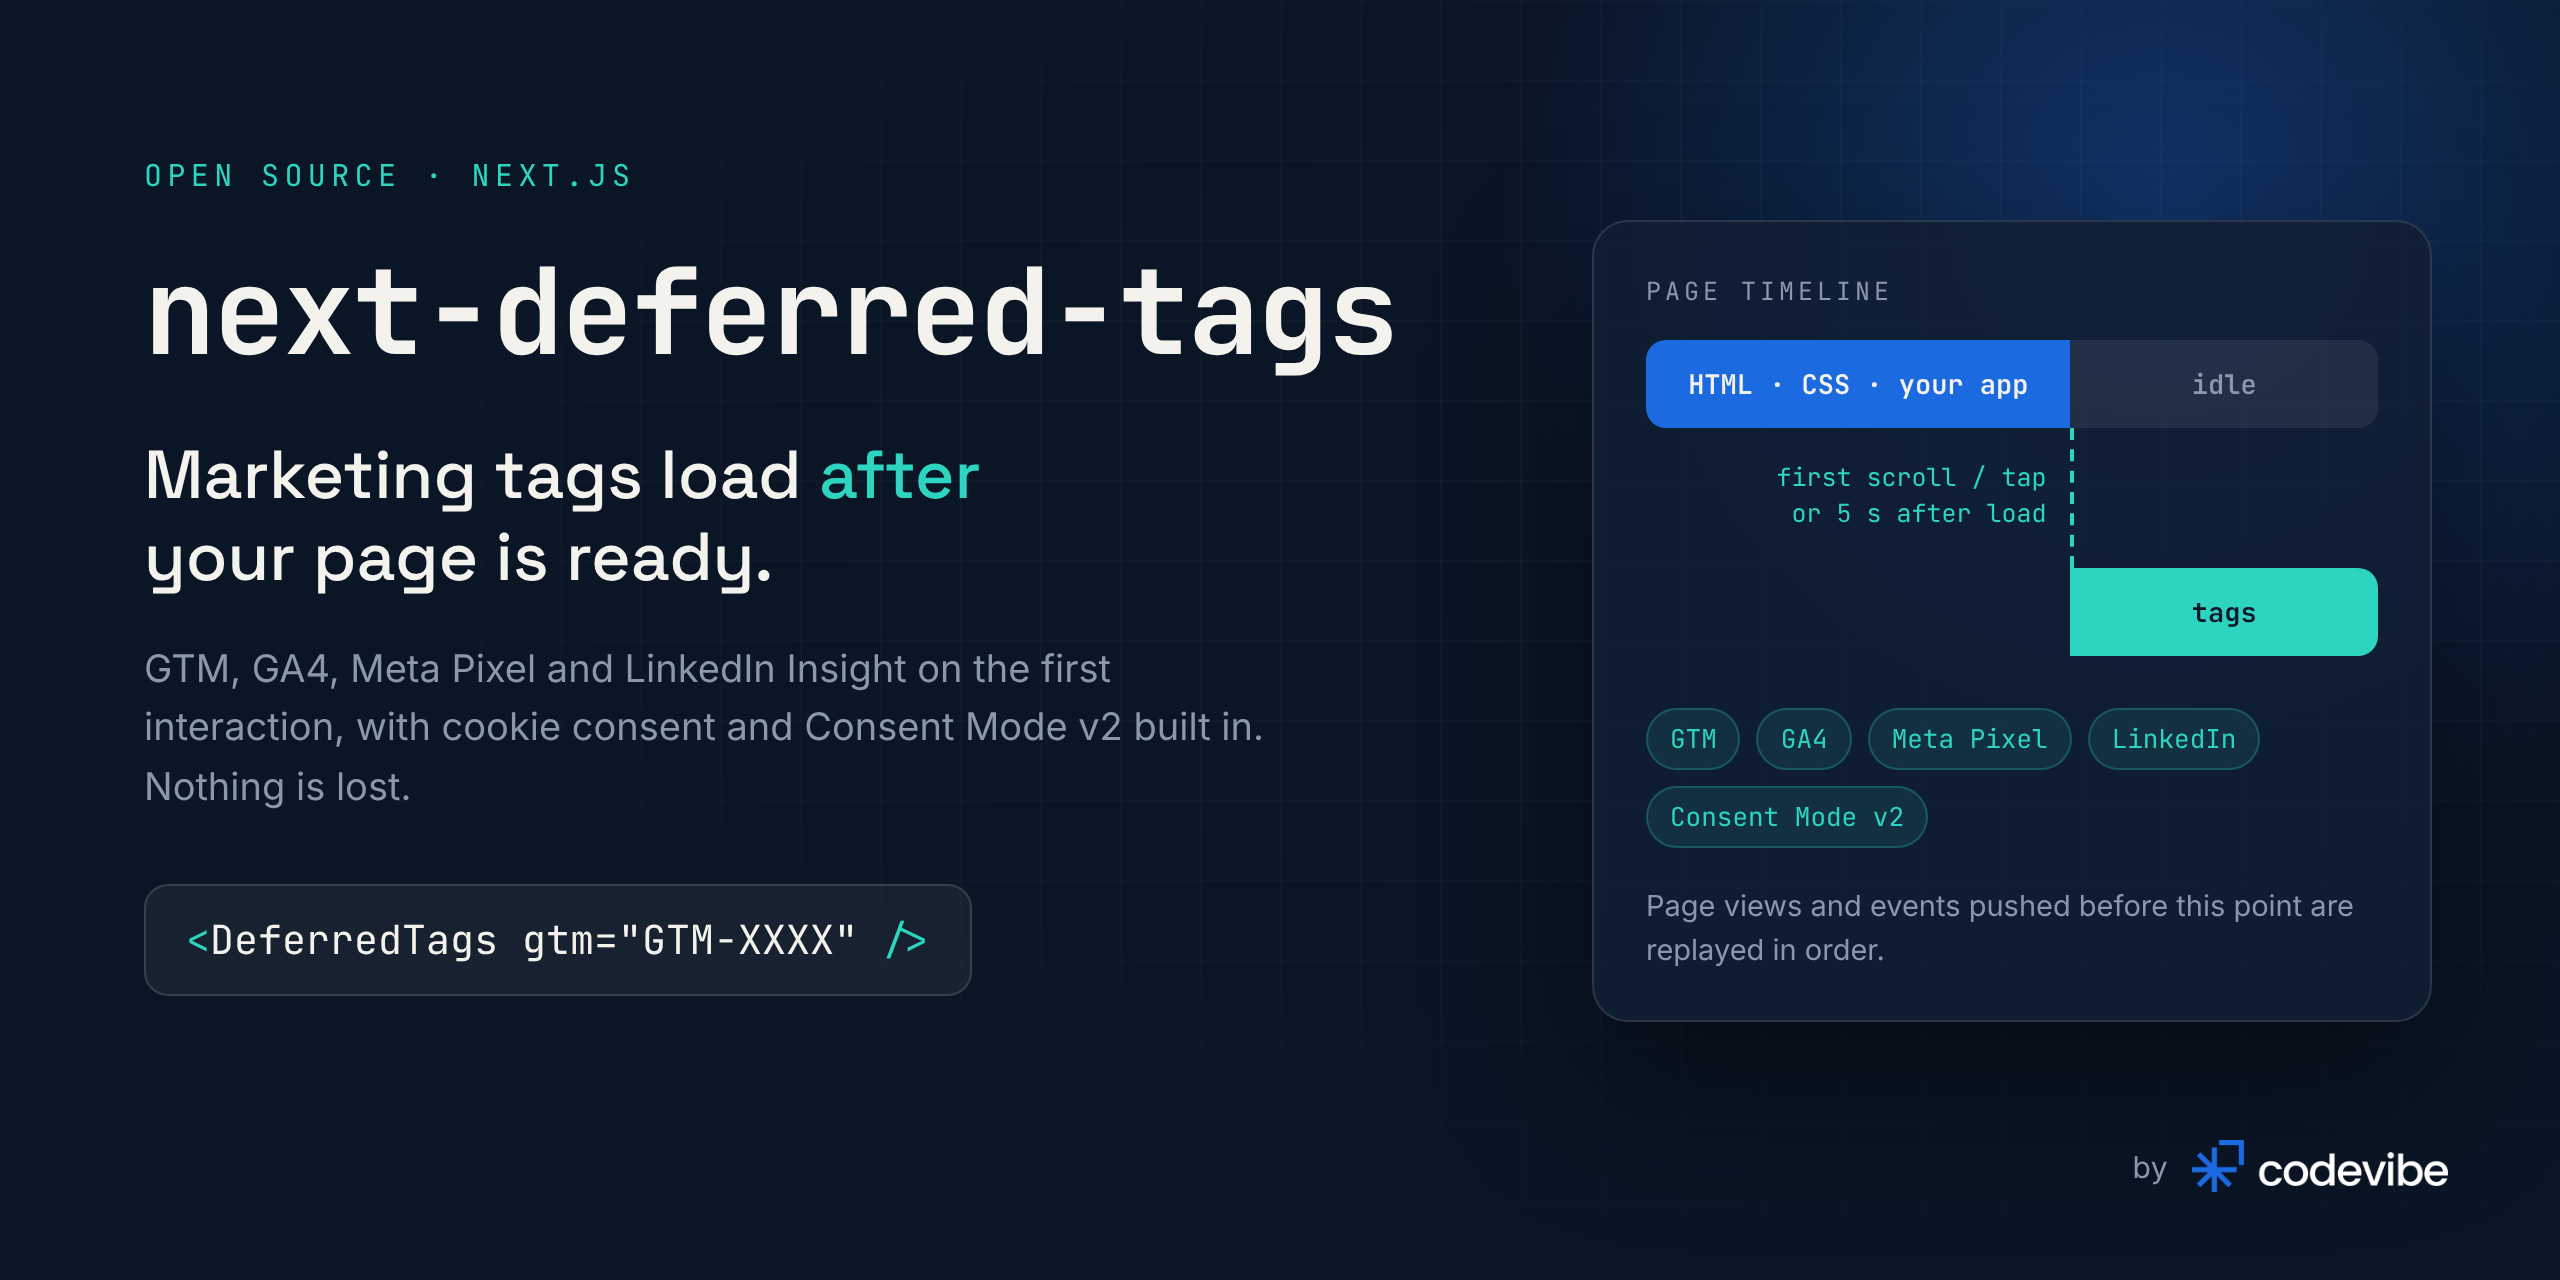
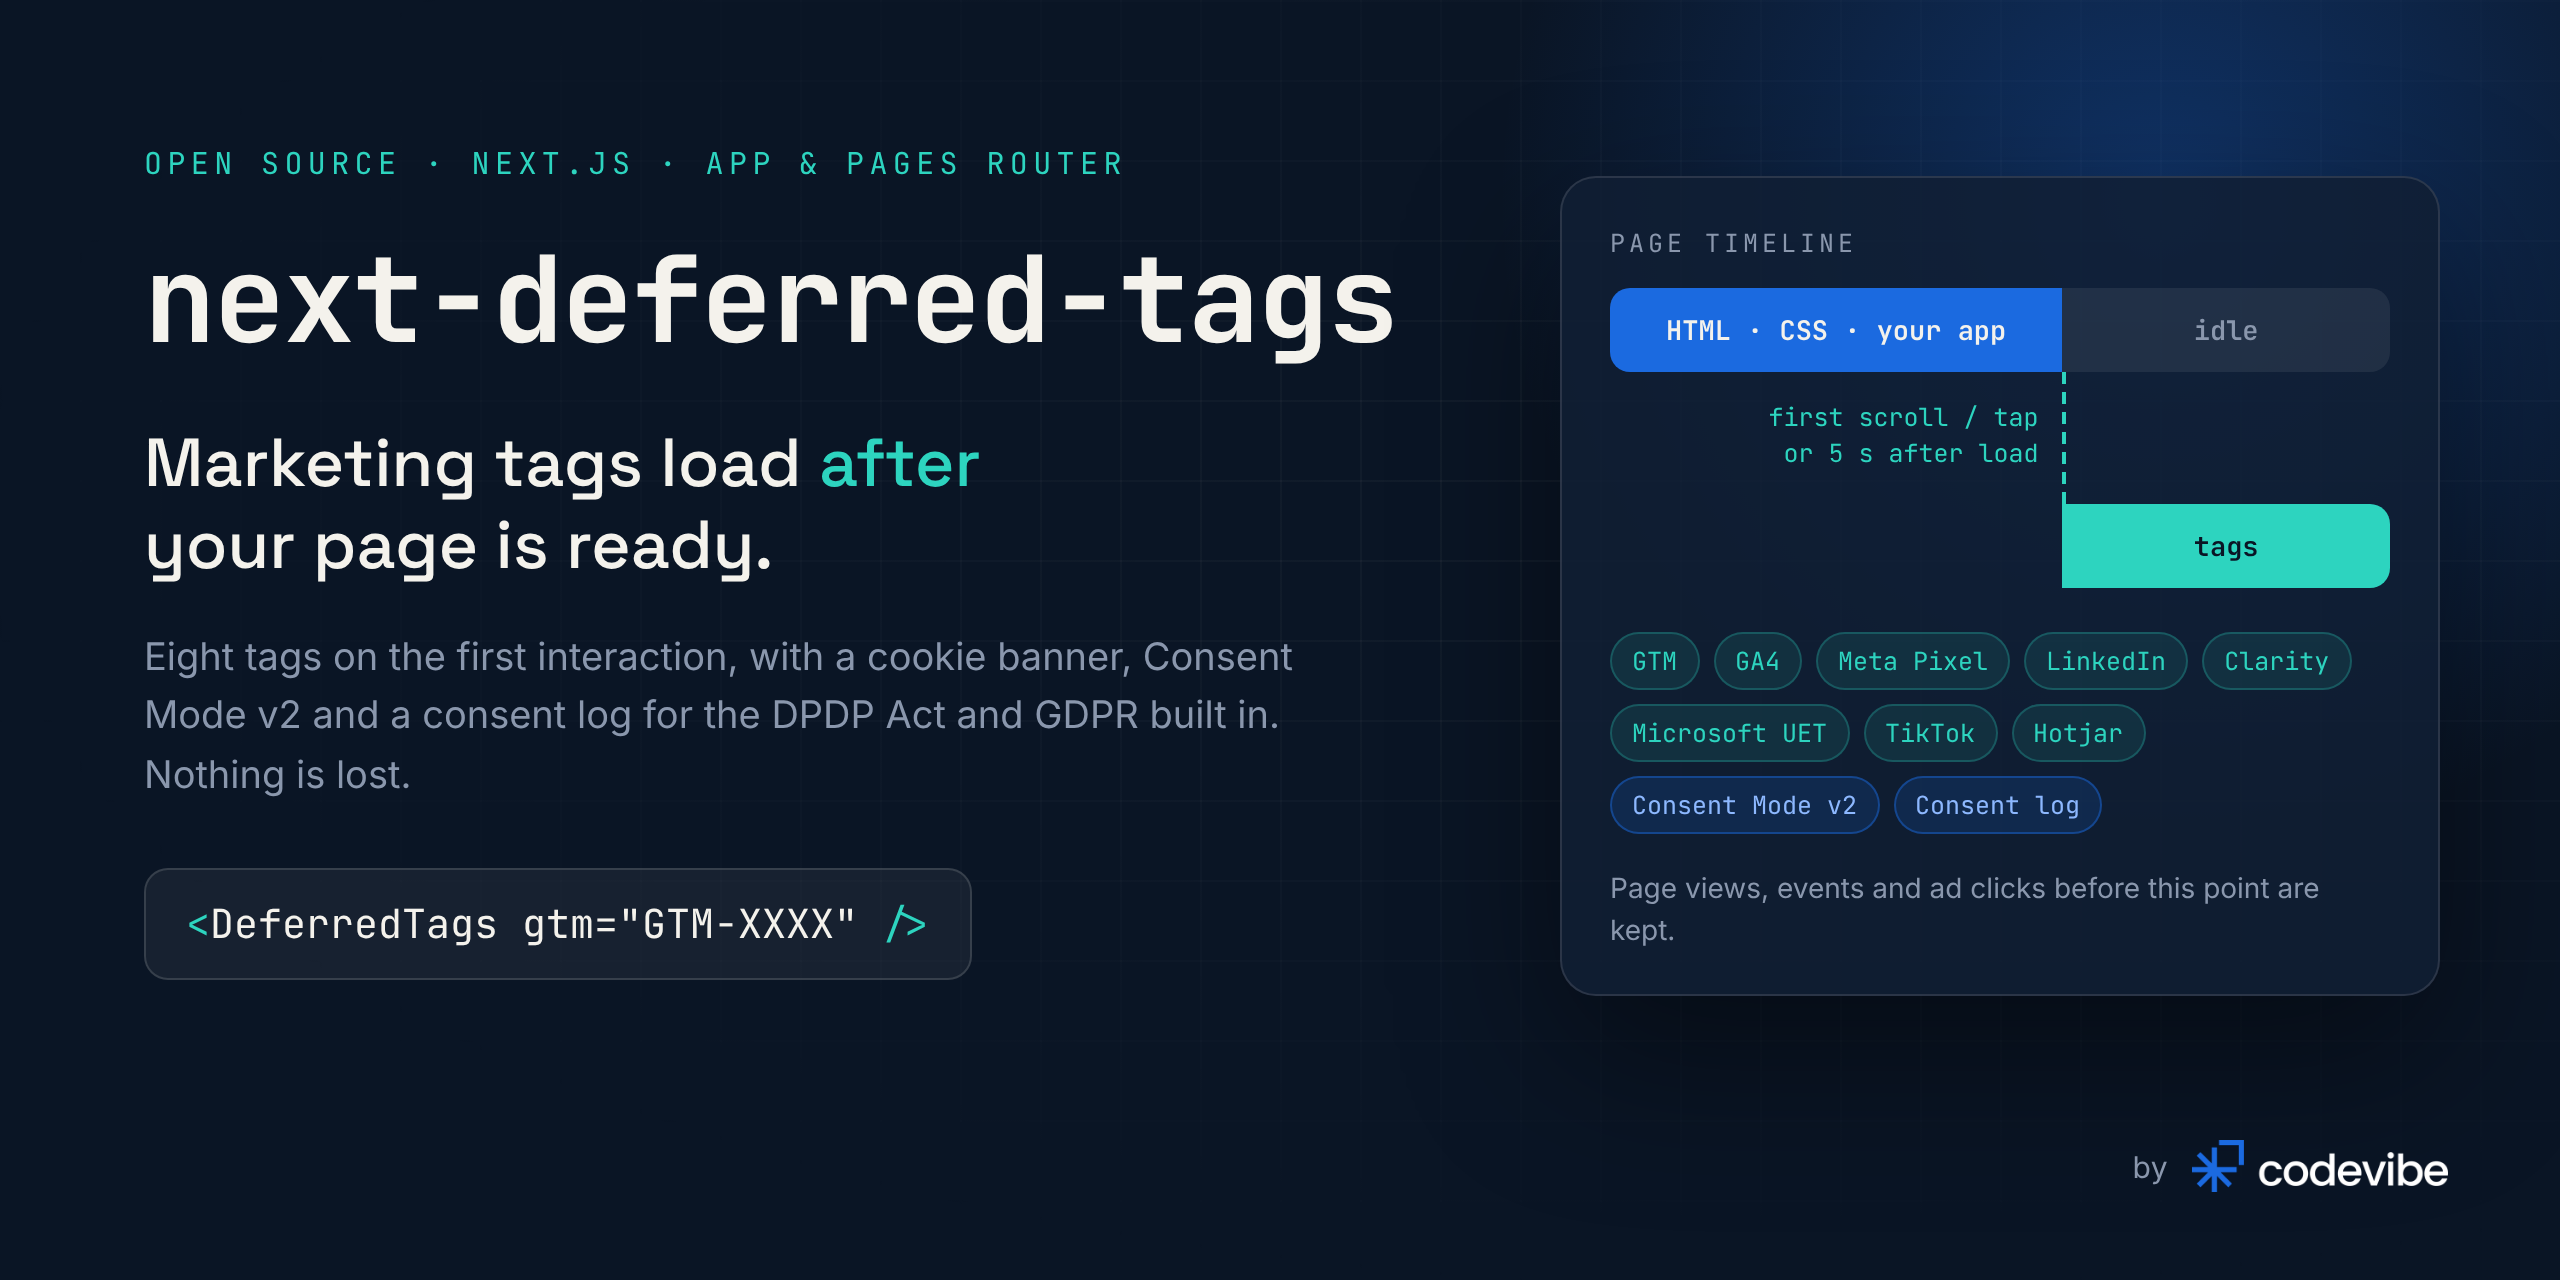
docs: update the README images for 0.3 (#12)
<!-- Title format: type(scope): summary, e.g. "fix(robots): handle BOM".
It becomes the commit title on squash merge. -->

## What does this change?

<!-- A short description of the change and why it is needed. Link the
issue: Fixes #123 -->

## How was it tested?

<!-- Commands you ran, new tests, or manual checks. -->

## Checklist

- [ ] `npm test` passes
- [ ] `npm run build` passes
- [ ] Tests added or updated for behaviour changes
- [ ] CHANGELOG.md has a line under "Unreleased" (required for feat,
fix, perf, revert)
- [ ] README updated if usage changed

diff --git a/README.md b/README.md
@@ -89,6 +89,10 @@ On [codevibe.in](https://codevibe.in?utm_source=github&utm_medium=readme&utm_cam
 
 ## Features
 
+<p align="center">
+  <img src=".github/assets/whats-inside.png" alt="What's inside next-deferred-tags: tags load after the page is ready, eight tags built in, consent built in, a consent log you can keep, ad clicks keep their credit, and events from your server" width="100%">
+</p>
+
 - ⚡ **Nothing downloads during page load.** No tag `<script>` in the server HTML and no requests until the visitor interacts or the delay passes.
 - 🧾 **No lost data.** The same queues the official snippets create (`dataLayer`, `gtag`, `fbq`, `lintrk`, `clarity`, `uetq`, `ttq`, `hj`) exist from the first render, so early page views and events are replayed in order.
 - 🎯 **Ad clicks keep their credit.** `gclid`, `fbclid`, `msclkid`, `ttclid` and UTM tags from the landing page reach the tags even if the visitor moved on before they loaded.

diff --git a/CHANGELOG.md b/CHANGELOG.md
@@ -6,6 +6,11 @@ You can also read it on the [next-deferred-tags changelog page](https://codevibe
 
 ## Unreleased
 
+### Changed
+
+- README cover image (`.github/assets/banner.png`, also shown on npm) updated for 0.3: all eight built-in tags, the consent log, and App and Pages Router.
+- New "What's inside" image at the top of the Features section (`.github/assets/whats-inside.png`): loading after the page is ready, the eight tags, consent, the consent log, ad click handover and server-side events.
+
 ## [0.3.0] - 2026-11-16
 
 ### Added
